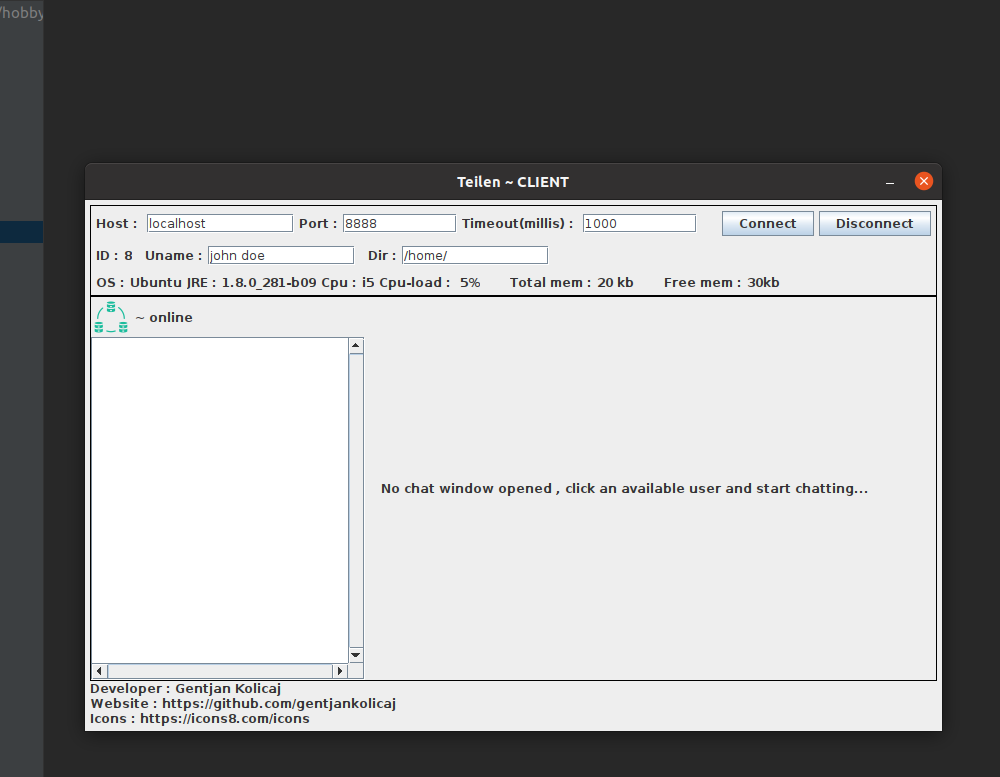
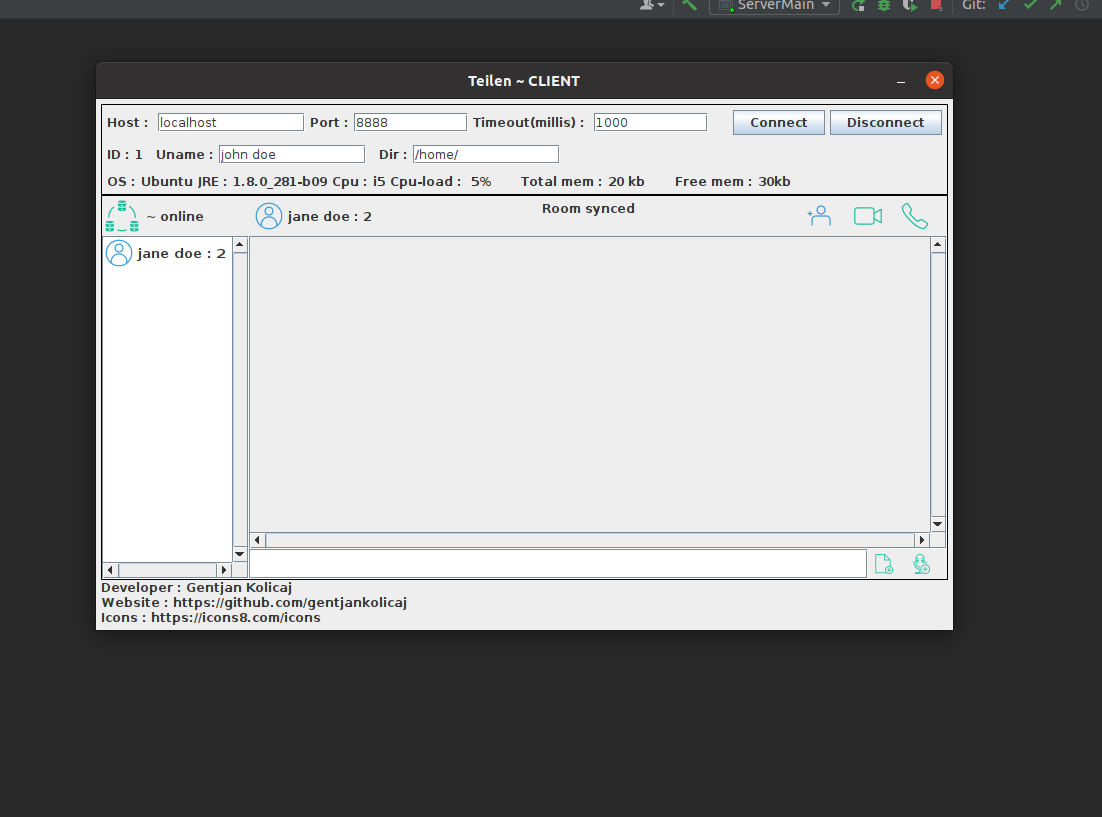
project client:Changes at gui classes.

diff --git a/client/src/main/java/org/teilen/client/gui/RoomPanel.java b/client/src/main/java/org/teilen/client/gui/RoomPanel.java
@@ -27,12 +27,11 @@ public class RoomPanel extends JPanel {
     HeaderPanel headerPanel;
     BodyPanel bodyPanel;
     FooterPanel footerPanel;
-
     JLabel noChatLbl;
 
     public RoomPanel() {
         this.setLayout(new BorderLayout(0, 0));
-        this.noChatLbl = new JLabel("No chat window opened , click an available user and start chatting...");
+        this.noChatLbl = new JLabel("Click an available user and start chatting...");
         this.add(noChatLbl, BorderLayout.CENTER);
     }
 
@@ -41,7 +40,7 @@ public class RoomPanel extends JPanel {
             this.setLayout(new BorderLayout(0, 0));
 
             this.headerPanel = new HeaderPanel(clientId);
-            this.bodyPanel = new BodyPanel(clientId);
+            this.bodyPanel = new BodyPanel(clientId, headerPanel.syncLbl);
             this.footerPanel = new FooterPanel(clientId);
 
             this.add(headerPanel, BorderLayout.NORTH);
@@ -50,16 +49,23 @@ public class RoomPanel extends JPanel {
         } else {
             this.setLayout(new BorderLayout(0, 0));
 
-            this.noChatLbl = new JLabel("No chat window opened , click an available user and start chatting...");
+            this.noChatLbl = new JLabel("Click an available user and start chatting...");
             this.add(noChatLbl, BorderLayout.CENTER);
         }
     }
 
 
     public void validateGui() {
-        if (bodyPanel != null) {
+        if (this.headerPanel != null) {
+            this.headerPanel.revalidateGui();
+        }
+        if (this.bodyPanel != null) {
             this.bodyPanel.revalidateGui();
         }
+        if (this.footerPanel != null) {
+            this.footerPanel.revalidateGui();
+        }
+        this.validate();
     }
 
 
@@ -68,11 +74,13 @@ public class RoomPanel extends JPanel {
 
         JPanel westPanel;
         JPanel eastPanel;
+        JPanel centerPanel;
 
         JLabel usernameLbl;
         JLabel addUserLbl;
         JLabel cameraLbl;
         JLabel phoneLbl;
+        JLabel syncLbl;
         Map<String, ImageIcon> iconMap = getIconMap();
 
 
@@ -84,11 +92,13 @@ public class RoomPanel extends JPanel {
 
             this.westPanel = new JPanel();
             this.eastPanel = new JPanel();
+            this.centerPanel = new JPanel();
 
             this.usernameLbl = new JLabel(username);
             this.addUserLbl = new JLabel("  ");
             this.cameraLbl = new JLabel("  ");
             this.phoneLbl = new JLabel("  ");
+            this.syncLbl = new JLabel("Room syncing...");
 
             this.usernameLbl.setIcon(iconMap.get("User"));
             this.addUserLbl.setIcon(iconMap.get("AddUser"));
@@ -103,9 +113,12 @@ public class RoomPanel extends JPanel {
             this.eastPanel.add(cameraLbl);
             this.eastPanel.add(phoneLbl);
 
+            this.centerPanel.add(syncLbl);
+
             //Set panels east & west
             this.add(westPanel, BorderLayout.WEST);
             this.add(eastPanel, BorderLayout.EAST);
+            this.add(centerPanel, BorderLayout.CENTER);
 
             //Add contentPane to parent panel
         }
@@ -130,6 +143,11 @@ public class RoomPanel extends JPanel {
                 username = "";
             return username;
         }
+
+        public void revalidateGui() {
+            String recentUsername = getUsername(ClientRepository.findClientById(clientId));
+            usernameLbl.setText(recentUsername);
+        }
     }
 
 
@@ -137,7 +155,7 @@ public class RoomPanel extends JPanel {
         Integer clientId;
         Integer ownerId;
 
-        JLabel emptyRoomContentLbl;
+        JLabel syncLbl;
         JScrollPane allDaysScrollPane;
         JPanel containerPanel;
         List<DayPanel> dayPanels;
@@ -145,9 +163,10 @@ public class RoomPanel extends JPanel {
         boolean syncedLabelFlag;
         boolean removeInitLabels = true;
 
-        public BodyPanel(Integer clientId) {
+        public BodyPanel(Integer clientId, JLabel syncLbl) {
             this.clientId = clientId;
             this.ownerId = ClientRepository.findOwnerId();
+            this.syncLbl = syncLbl;
 
             this.containerPanel = new JPanel();
             this.dayPanels = new ArrayList<>();
@@ -176,7 +195,7 @@ public class RoomPanel extends JPanel {
                                     DayPanel dayPanel = dayPanels.get(i);
                                     LocalDate existingDate = dayPanel.getDate();
                                     if (!existingDate.equals(contentDate)) {
-                                        DayPanel newDayPanel = new DayPanel(contentDate, roomContent);
+                                        DayPanel newDayPanel = new DayPanel(ownerId, contentDate, roomContent);
                                         dayPanels.add(newDayPanel);
                                         break;
                                     } else {
@@ -189,15 +208,10 @@ public class RoomPanel extends JPanel {
                         for (int i = 0; i < dayPanels.size(); i++) {
                             containerPanel.add(dayPanels.get(i), i);
                         }
-                    } else {
-                        emptyRoomContentLbl = new JLabel("Room synced.Start chatting !");
-                        containerPanel.add(emptyRoomContentLbl);
+                    } else
+                        syncLbl.setText("Room synced");
 
-                    }
                 } else {
-                    emptyRoomContentLbl = new JLabel("Room syncing...");
-                    containerPanel.add(emptyRoomContentLbl);
-
                     //Send read room packet to server
                     Set<Integer> clientIds = getClientIds(ownerId, clientId);
                     RoomPacket rRoomPacket = new RoomPacket(new Header(ownerId, -1), new Body(null, new RoomClientsWrapper(clientIds)), null, RoomOp.ROOM_READ);
@@ -229,7 +243,7 @@ public class RoomPanel extends JPanel {
                                         DayPanel dayPanel = dayPanels.get(j);
                                         LocalDate existingDate = dayPanel.getDate();
                                         if (!existingDate.equals(contentDate)) {
-                                            DayPanel newDayPanel = new DayPanel(contentDate, roomContent);
+                                            DayPanel newDayPanel = new DayPanel(ownerId, contentDate, roomContent);
                                             dayPanels.add(newDayPanel);
                                             break;
                                         } else {
@@ -238,7 +252,7 @@ public class RoomPanel extends JPanel {
                                         j++;
                                     } while (j < dayPanels.size());
                                 } else {
-                                    DayPanel newDayPanel = new DayPanel(contentDate, roomContent);
+                                    DayPanel newDayPanel = new DayPanel(ownerId, contentDate, roomContent);
                                     dayPanels.add(newDayPanel);
                                 }
                             }
@@ -260,16 +274,13 @@ public class RoomPanel extends JPanel {
                         }
                     } else {
                         if (!syncedLabelFlag) {
-                            containerPanel.remove(emptyRoomContentLbl);
-                            emptyRoomContentLbl = new JLabel("Room synced.Start chatting !");
-                            containerPanel.add(emptyRoomContentLbl);
+                            syncLbl.setText("Room synced");
                             syncedLabelFlag = true;
                         }
                     }
                 }
             }
             this.allDaysScrollPane.validate();
-            this.validate();
         }
 
         private Set<Integer> getClientIds(Integer ownerId, Integer... ids) {
@@ -279,8 +290,6 @@ public class RoomPanel extends JPanel {
                 clientIds.add(id);
             return clientIds;
         }
-
-
     }
 
 
@@ -362,6 +371,8 @@ public class RoomPanel extends JPanel {
             }
         }
 
+        public void revalidateGui() {
+        }
     }
 
 }

diff --git a/client/src/main/java/org/teilen/client/gui/DayPanel.java b/client/src/main/java/org/teilen/client/gui/DayPanel.java
@@ -1,42 +1,51 @@
 package org.teilen.client.gui;
 
+import org.teilen.common.domain.FileContent;
 import org.teilen.common.domain.RoomContent;
 import org.teilen.common.domain.TextContent;
 
 import javax.swing.*;
+import javax.swing.border.TitledBorder;
+import java.awt.*;
 import java.time.LocalDate;
 import java.util.ArrayList;
 import java.util.List;
 
 public class DayPanel extends JPanel {
+    private final Integer ownerId;
     private LocalDate date;
     private final List<RoomContent> roomContents;
-    JLabel dateLabel;
     private boolean stateChanged;
     private List<RoomContent> tmpRoomContent;
+    private final TitledBorder titledBorder;
 
-    public DayPanel(LocalDate date, List<RoomContent> roomContents) {
+    public DayPanel(Integer ownerId, LocalDate date, List<RoomContent> roomContents) {
+        this.ownerId = ownerId;
         this.setLayout(new BoxLayout(this, BoxLayout.Y_AXIS));
         this.date = date;
         this.roomContents = roomContents;
         this.tmpRoomContent = new ArrayList<>();
-        this.dateLabel = new JLabel(this.date.toString());
-        this.add(dateLabel, 0);
 
+        this.titledBorder = new TitledBorder(this.date.toString());
+        titledBorder.setTitleJustification(TitledBorder.CENTER);
+        titledBorder.setTitlePosition(TitledBorder.TOP);
+        this.setBorder(titledBorder);
         this.stateChanged = true;
 
     }
 
-    public DayPanel(LocalDate date, RoomContent roomContent) {
+    public DayPanel(Integer ownerId, LocalDate date, RoomContent roomContent) {
+        this.ownerId = ownerId;
         this.setLayout(new BoxLayout(this, BoxLayout.Y_AXIS));
         this.date = date;
         this.roomContents = new ArrayList<>();
         this.tmpRoomContent = new ArrayList<>();
-
         this.roomContents.add(roomContent);
-        this.dateLabel = new JLabel(this.date.toString());
-        this.add(dateLabel, 0);
 
+        this.titledBorder = new TitledBorder(this.date.toString());
+        titledBorder.setTitleJustification(TitledBorder.CENTER);
+        titledBorder.setTitlePosition(TitledBorder.TOP);
+        this.setBorder(titledBorder);
         this.stateChanged = true;
     }
 
@@ -83,9 +92,15 @@ public class DayPanel extends JPanel {
                     RoomContent roomContent = tmpRoomContent.get(i);
                     if (roomContent instanceof TextContent) {
                         TextContent textContent = (TextContent) roomContent;
-                        TextLabel textLabel = new TextLabel(textContent);
-                        textLabel.setHorizontalAlignment(SwingConstants.LEFT);
-                        this.add(textLabel);
+                        Integer creatorId = textContent.getCreatorId();
+
+                        RowContent contentBox = null;
+                        if (creatorId != null && creatorId.intValue() == ownerId.intValue())
+                            contentBox = new RowContent(i, true, textContent);
+                        else
+                            contentBox = new RowContent(i, false, textContent);
+
+                        this.add(contentBox);
                     }
                 }
                 tmpRoomContent.clear();
@@ -93,5 +108,49 @@ public class DayPanel extends JPanel {
             }
         }
     }
+
+}
+
+class RowContent extends JPanel {
+    int index;
+    boolean isOwned;
+    RoomContent roomContent;
+
+    JLabel contentLabel;
+
+    public RowContent(int index, boolean isOwned, TextContent textContent) {
+        this.index = index;
+        this.isOwned = isOwned;
+        this.roomContent = textContent;
+
+        if (isOwned) {
+            this.setLayout(new FlowLayout(FlowLayout.RIGHT));
+            this.contentLabel = new JLabel(prepareText(textContent.getText()));
+            this.contentLabel.setOpaque(true);
+            this.contentLabel.setBackground(new Color(20, 130, 249));
+            this.contentLabel.setForeground(Color.white);
+
+        } else {
+            this.setLayout(new FlowLayout(FlowLayout.LEFT));
+            this.contentLabel = new JLabel(prepareText(textContent.getText()));
+            this.contentLabel.setOpaque(true);
+            this.contentLabel.setBackground(new Color(200, 213, 228));
+            this.contentLabel.setForeground(Color.BLACK);
+
+        }
+        this.add(contentLabel);
+
+    }
+
+    public RowContent(int index, boolean isOwned, FileContent fileContent) {
+        this.index = index;
+        this.isOwned = isOwned;
+        this.roomContent = fileContent;
+    }
+
+    private String prepareText(String text) {
+        return "    " + text + "    ";
+    }
+
 
 }

diff --git a/README.md b/README.md
@@ -14,7 +14,9 @@ Desktop communication application with sockets.It also has messaging, file trans
 
 ![](img/client_1.png)
 
-![](img/client_1.png)
+<br>--------------------------------------------------------------------------------------------------------------------
+
+![](img/client_2.png)
 
 <br>
 
@@ -33,3 +35,7 @@ Desktop communication application with sockets.It also has messaging, file trans
 # Multiple clients :
 
 ![](img/multiple_clients_1.png)
+
+<br>--------------------------------------------------------------------------------------------------------------------
+
+![](img/multiple_clients_2.png)
